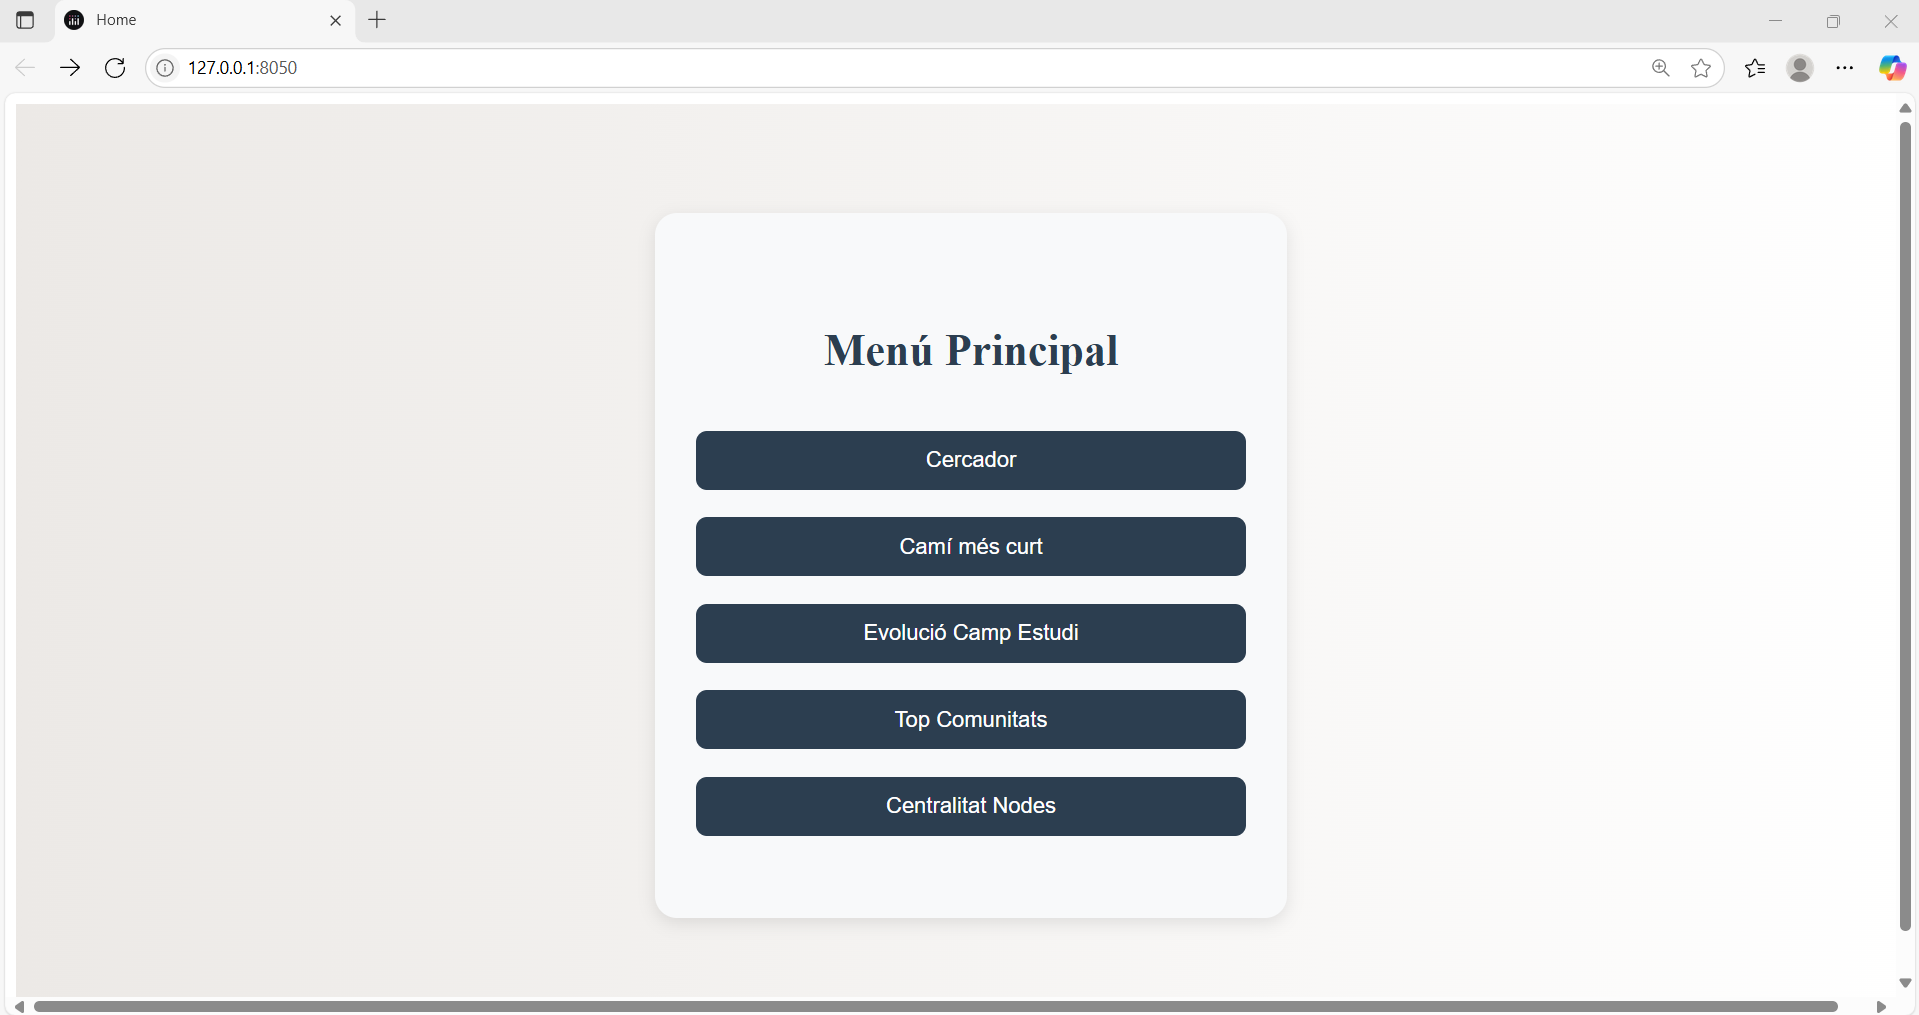
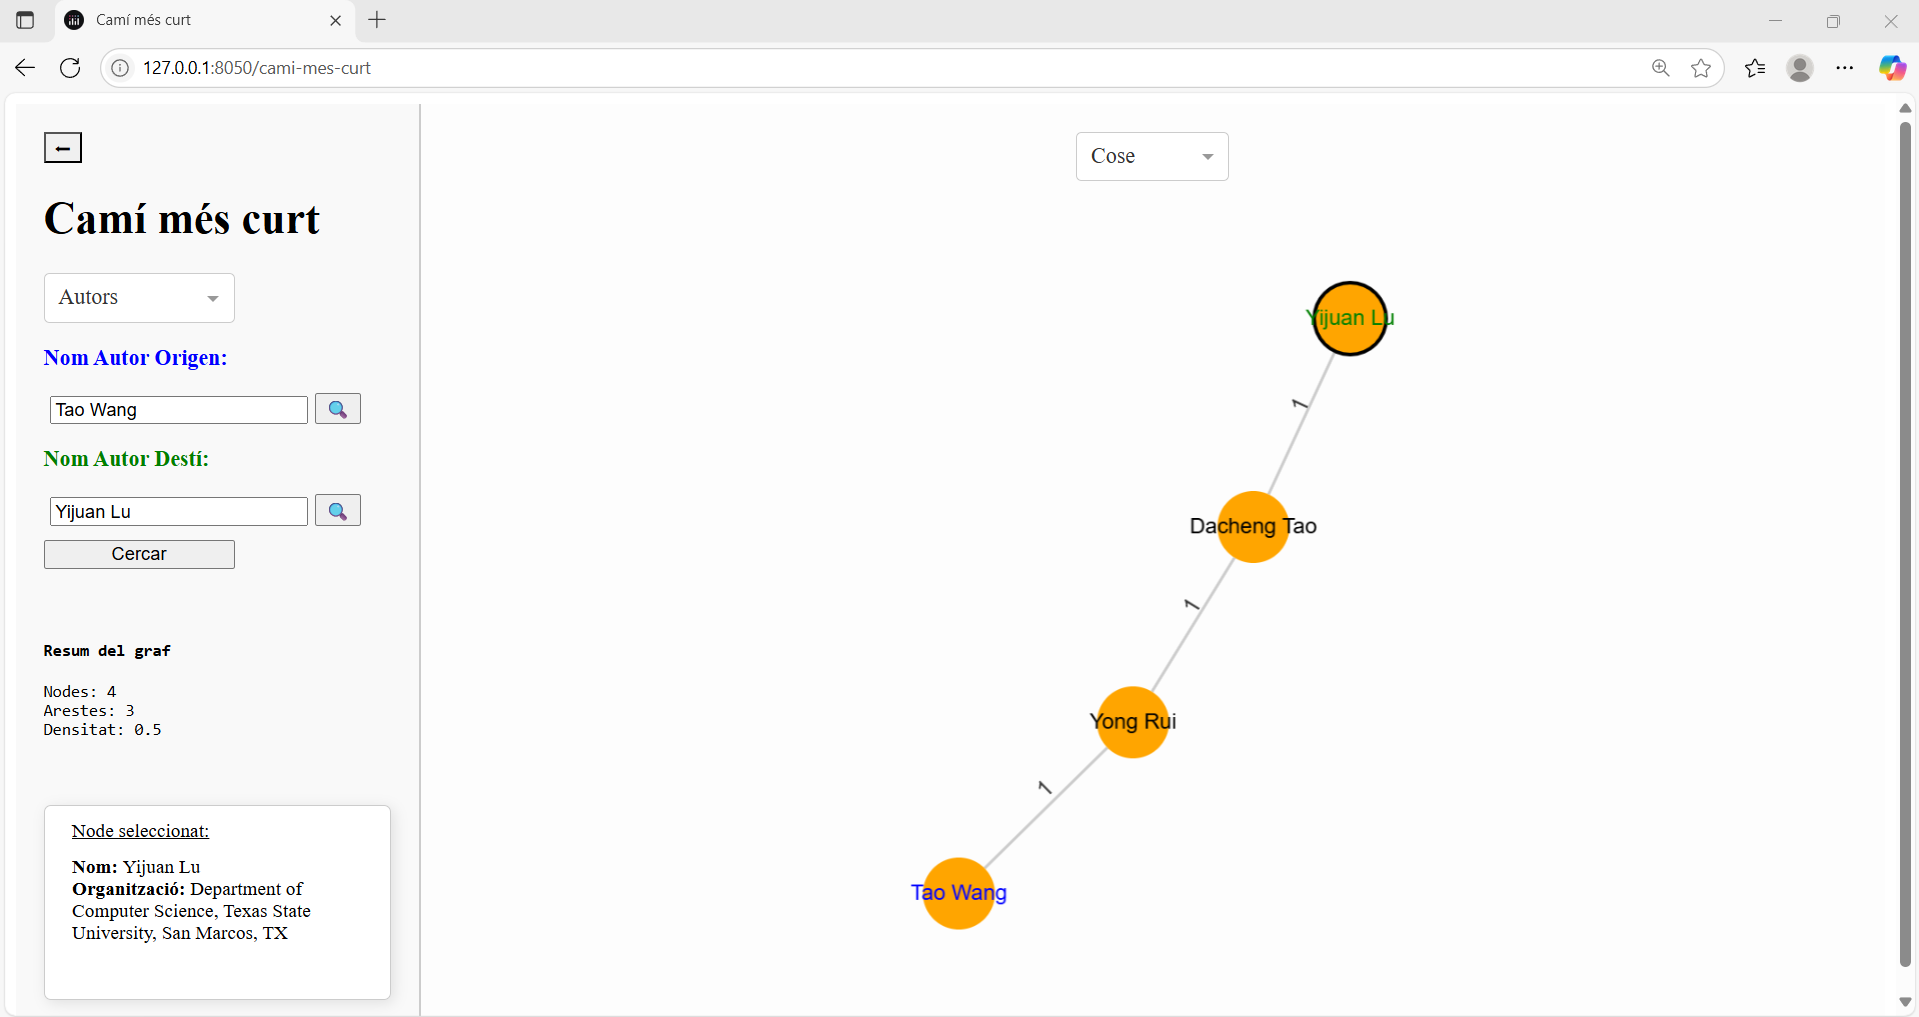
adding application preview

diff --git a/README.md b/README.md
@@ -13,6 +13,46 @@ Citation Network Explorer is a research-oriented dashboard for exploring relatio
 - Analyze node centrality with graph algorithms.
 - Inspect interactive graph visualizations.
 
+## Application Preview
+
+The application provides several views for exploring and analysing the citation graph. Each view combines an interactive graph with a control panel containing the inputs, graph summary, color legend, and details for the selected node. The screenshots are shown in Catalan because they were captured from the original application, but the functionality of each view is summarized below.
+
+### Main Menu
+
+The home screen provides access to all graph exploration tools and acts as the main entry point to the application.
+
+![Citation Network Explorer main menu](assets/screenshots/main-menu.png)
+
+### Search
+
+Search for an article, author, or research field and inspect its direct relationships in the graph. Selecting a node reveals additional metadata and, where available, a link to the original document, making this view useful for moving from a graph result to a more detailed investigation.
+
+![Citation graph search](assets/screenshots/search-graph.png)
+
+### Shortest Path
+
+Find and visualize the shortest path between two articles or authors when a connection exists. This makes collaboration chains, citation links, and possible knowledge-transfer routes visible, helping users understand how two entities are connected within the academic network.
+
+![Shortest path analysis](assets/screenshots/shortest-path-analysis.png)
+
+### Research Field Evolution
+
+Explore how a research field connects to related articles over time. An interactive time-range slider filters the publication period, allowing users to compare how a field develops and which articles appear in different stages of its history.
+
+![Research field evolution](assets/screenshots/research-field-evolution.png)
+
+### Top Communities
+
+Detect and inspect groups of closely connected articles or authors using community detection algorithms. This can reveal thematic clusters, recurring collaboration groups, and bridges between institutions or scientific communities.
+
+![Top communities analysis](assets/screenshots/top-communities.png)
+
+### Node Centrality
+
+Calculate node importance using centrality algorithms such as PageRank. Node size reflects its centrality, while zooming, panning, and rearranging the graph help users inspect influential articles or authors and their surrounding connections in detail.
+
+![Node centrality analysis](assets/screenshots/node-centrality.png)
+
 ## Project Structure
 
 ```text
@@ -184,46 +224,6 @@ The `database/` directory contains the Cypher scripts used to prepare and popula
 | Top Communities | `/top-communities` |
 | Node Centrality | `/node-centrality` |
 | Research Field Evolution | `/field-evolution` |
-
-## Application Preview
-
-The application provides several views for exploring and analysing the citation graph:
-
-### Main Menu
-
-The home screen provides access to all graph exploration tools.
-
-![Citation Network Explorer main menu](assets/screenshots/main-menu.png)
-
-### Search
-
-Search for articles, authors, or research fields and inspect their connected nodes.
-
-![Citation graph search](assets/screenshots/search-graph.png)
-
-### Shortest Path
-
-Find and visualize the shortest path between two articles or authors.
-
-![Shortest path analysis](assets/screenshots/shortest-path-analysis.png)
-
-### Research Field Evolution
-
-Explore how a research field connects to related articles over time.
-
-![Research field evolution](assets/screenshots/research-field-evolution.png)
-
-### Top Communities
-
-Detect and inspect graph communities using community detection algorithms.
-
-![Top communities analysis](assets/screenshots/top-communities.png)
-
-### Node Centrality
-
-Calculate node importance using centrality algorithms such as PageRank.
-
-![Node centrality analysis](assets/screenshots/node-centrality.png)
 
 ## Scope
 
